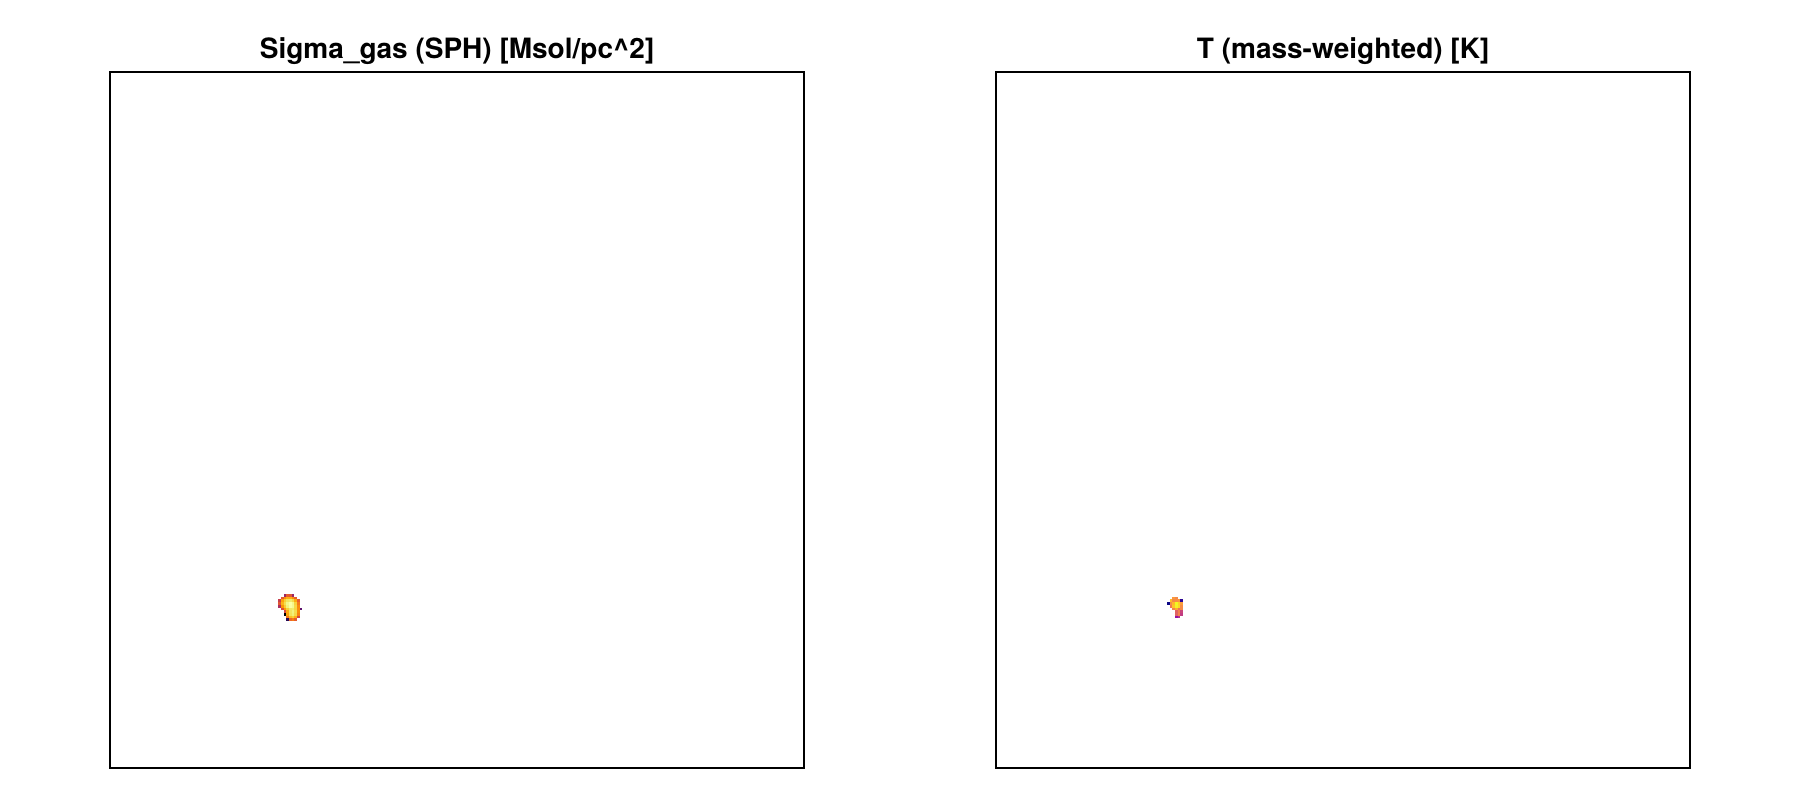
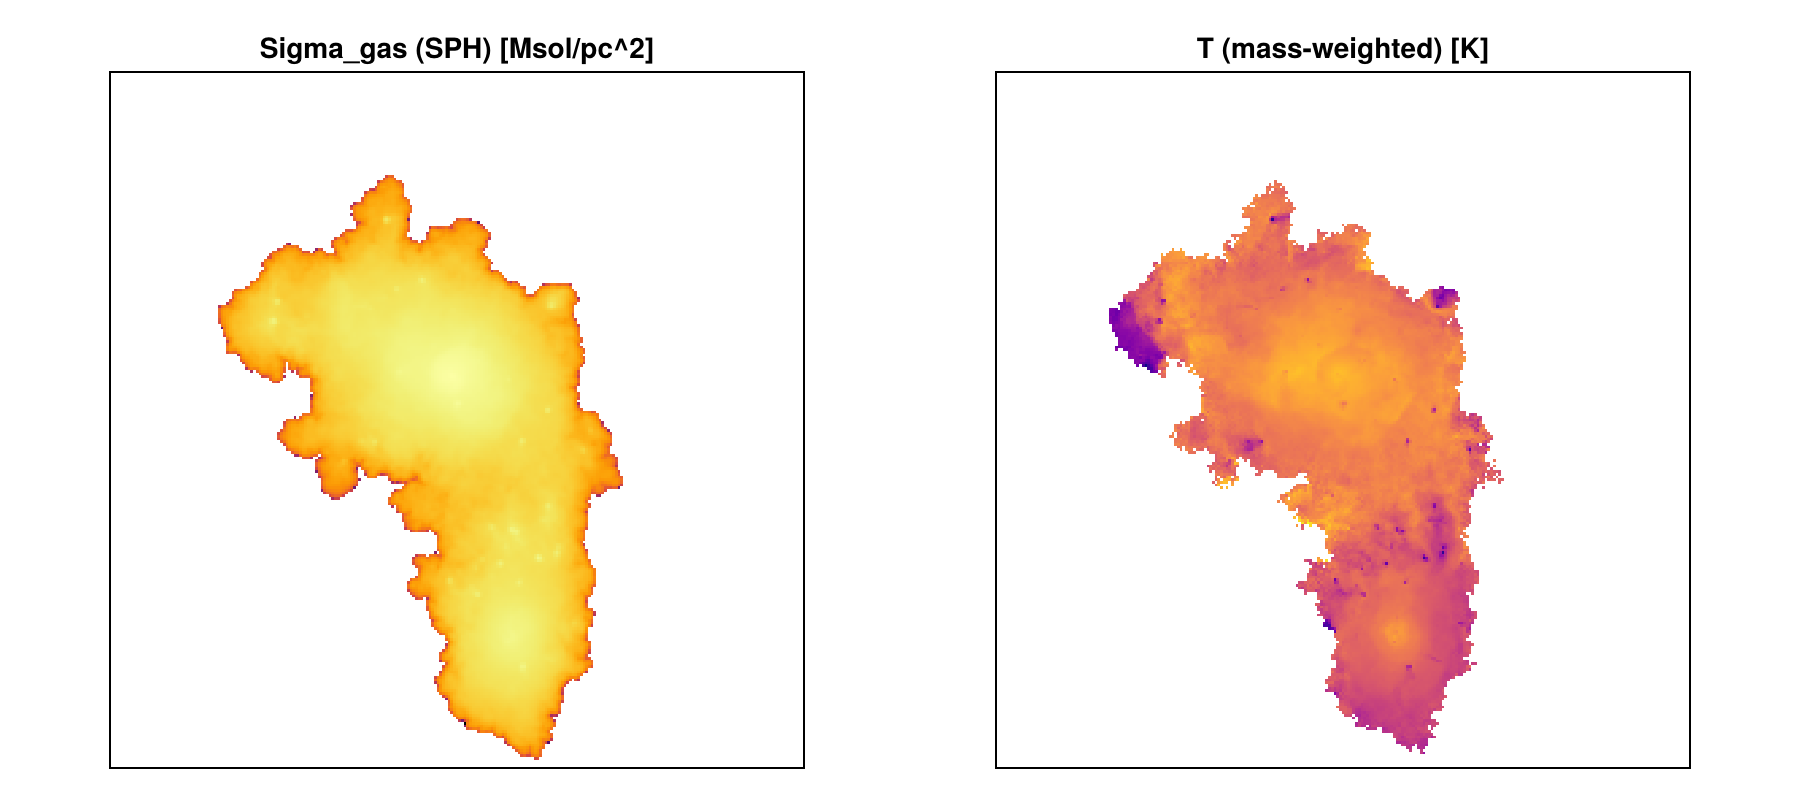
docs(AREPO): fix empty gas map (zoom to halo) + explain moving-mesh projection (#222)
The rendered TNG gas figure was ~empty because the projection spanned the full
205 Mpc box while TNGHalo is a small halo cutout (gas filled ~7 px of a 256²
map). The notebook now zooms to the halo (center on the gas COM, range in kpc,
res scaled up since res is full-box-relative) — the maps fill the frame. Figure
re-rendered (26K → 108K).

gadget_reader.md gains a "Moving-mesh projection" note: AREPO is a Voronoi
moving mesh, so weighting=:sph (smear each cell over an M4 kernel sized from its
volume) is the moving-mesh conversion — the same approach yt uses — while a
Voronoi-exact renderer would be a future refinement, not a correctness fix.

Changed region(s): [[0.1244, 0.2188, 0.3422, 0.9688], [0.5911, 0.2188, 0.84, 0.9375], [0.1556, 0.75, 0.1867, 0.7812]]

diff --git a/docs/src/multicode_examples.md b/docs/src/multicode_examples.md
@@ -29,13 +29,6 @@ using Mera
 base = get(ENV, "MERA_TEST_DATA", "/Volumes/FASTStorage/Simulations/Mera-Tests")
 ```
 
-    [36m[1m[ [22m[39m[36m[1mInfo: [22m[39mPrecompiling Mera [02f895e8-fdb1-4346-8fe6-c721699f5126] (cache misses: include_dependency fsize change (4), dep missing source (4), mismatched flags (10))
-
-
-    
-    SYSTEM: caught exception of type :MethodError while trying to print a failed Task notice; giving up
-
-
     
     *__   __ _______ ______   _______ 
 
@@ -69,7 +62,7 @@ gas  = gethydro(info, verbose=false)
 maximum(getvar(gas, :rho))                           # the usual analysis, unchanged
 ```
 
-    [0m[1m[Mera]: 2026-06-25T23:01:30.449[22m
+    [0m[1m[Mera]: 2026-06-25T23:14:32.338[22m
     
 
 
@@ -123,7 +116,7 @@ gsub = gethydro(ia; xrange=[-0.1,0.1], yrange=[-0.1,0.1], zrange=[-0.1,0.1],
 length(gsub.data), length(ga.data)                   # sub-region ≪ full snapshot
 ```
 
-    [0m[1m[Mera]: 2026-06-25T23:01:41.458[22m
+    [0m[1m[Mera]: 2026-06-25T23:14:43.762[22m
     
 
 
@@ -173,14 +166,14 @@ stars = getparticles_gadget(ig; families=[4])        # just the star particles
 length(stars.data), msum(stars) > 0
 ```
 
-    [0m[1m[Mera]: 2026-06-25T23:02:04.867[22m
+    [0m[1m[Mera]: 2026-06-25T23:15:07.582[22m
     
-
-
     Code: GADGET
     output: 200  time: 0.34483  redshift: 1.9
     boxlen = 64000.0
-    particles: 4334546 gas, 4786616 halo/DM, 2333848 disk, 450921 stars, 1149 bndry/BH  (total 11907080)
+    particles: 4334546 gas, 4786616 halo/DM, 2333848 disk, 450921 stars, 1149 bndry/BH
+
+      (total 11907080)
     -------------------------------------------------------
     [Mera]: GADGET particles = 450921, families 4
 
@@ -210,7 +203,7 @@ println("T   [K]     : ", extrema(getvar(gas, :T)))
 println("metallicity : ", extrema(getvar(gas, :metallicity)))
 ```
 
-    [0m[1m[Mera]: 2026-06-25T23:02:06.313[22m
+    [0m[1m[Mera]: 2026-06-25T23:15:08.951[22m
     
     Code: AREPO
     output: 59  time: 1.0  redshift: 0.0
@@ -221,9 +214,7 @@ println("metallicity : ", extrema(getvar(gas, :metallicity)))
 
       (x,y,z,vx,vy,vz,mass,id,family,rho,u,ne,metallicity,sfr,volume)
     gas cells   : 4006794
-    rho [g/cm³] : 
-
-    (1.3854807197342735e-30, 1.17827292777639e-22)
+    rho [g/cm³] : (1.3854807197342735e-30, 1.17827292777639e-22)
     T   [K]     : 
 
     (17.965557996942835, 1.2925814640761332e8)
@@ -240,21 +231,28 @@ println("gas mass [Msol]: ", msum(gas, :Msol))
 ```
 
     median T [K]   : 1.436872560859919e7
+    median Z       : 
 
-    
-    median Z       : 0.001993876649066806
+    0.001993876649066806
     gas mass [Msol]: 4.6930995577059625e13
 
 
-Gas maps come from the particle projection — point deposition (default) or `weighting=:sph`, which
-smears each cell over an M4 kernel sized from its `:volume`. Both are mass-conserving.
+Gas maps come from the particle projection. AREPO gas is a **Voronoi moving mesh**, so for maps each
+cell is smeared over an **M4 kernel sized from its `:volume`** (`weighting=:sph`) — the standard
+conversion for moving-mesh / SPH data (the same approach `yt` uses) — or deposited as a point
+(default). Both are mass-conserving. `TNGHalo` is a *cutout*, so we zoom to the halo.
 
 
 ```julia
-using CairoMakie
-c  = [sum(getvar(gas,:x)), sum(getvar(gas,:y)), sum(getvar(gas,:z))] ./ length(gas.data) ./ gas.boxlen
-sd = projection(gas, :sd, :Msol_pc2, res=256, center=c, weighting=:sph)   # SPH surface density
-Tm = projection(gas, :T,             res=256, center=c, weighting=:mass)   # mass-weighted ⟨T⟩
+using CairoMakie, Statistics
+# zoom to the halo (the gas fills only a small part of the 205 Mpc box); res is full-box-relative,
+# so scale it up so the zoom window spans ~256 px.
+cx, cy, cz = mean(getvar(gas,:x,:kpc)), mean(getvar(gas,:y,:kpc)), mean(getvar(gas,:z,:kpc))
+R   = maximum(maximum(abs, getvar(gas,q,:kpc) .- m) for (q,m) in zip((:x,:y,:z),(cx,cy,cz))) * 1.05
+res = ceil(Int, 256 * it.boxlen * it.scale.kpc / (2R))
+zoom = (res=res, center=[cx,cy,cz], range_unit=:kpc, xrange=[-R,R], yrange=[-R,R], zrange=[-R,R])
+sd = projection(gas, :sd, :Msol_pc2; weighting=:sph,  zoom...)   # SPH-kernel surface density
+Tm = projection(gas, :T;             weighting=:mass, zoom...)   # mass-weighted ⟨T⟩
 fig = Figure(size=(900, 400))
 a1 = Axis(fig[1,1]; title="Sigma_gas (SPH) [Msol/pc^2]", aspect=DataAspect()); hidedecorations!(a1)
 a2 = Axis(fig[1,2]; title="T (mass-weighted) [K]",        aspect=DataAspect()); hidedecorations!(a2)
@@ -263,44 +261,34 @@ heatmap!(a2, log10.(ifelse.(Tm.maps[:T]  .> 0, Tm.maps[:T],  NaN))'; colormap=:p
 fig
 ```
 
-    [36m[1m[ [22m[39m[36m[1mInfo: [22m[39mPrecompiling MeraMakieExt [defab1b5-6ec5-5409-a2f4-69ec619b2a0e] (cache misses: wrong dep version loaded (18))
-
-
-    
-    SYSTEM: caught exception of type :MethodError while trying to print a failed Task notice; giving up
-
-
-    [36m[1m[ [22m[39m[36m[1mInfo: [22m[39mMera v1.8.0
-
-
-    [0m[1m[Mera]: 2026-06-25T23:02:24.117[22m
+    [0m[1m[Mera]: 2026-06-25T23:15:21.508[22m
     
 
 
     center: [0.2352905, 0.2634881, 0.3024498] ==> [71.205 [Mpc] :: 79.739 [Mpc] :: 91.53 [Mpc]]
     
     domain:
-    xmin::xmax: 0.0 :: 1.0  	==> 0.0 [Mpc] :: 302.628 [Mpc]
-    ymin::ymax: 0.0 :: 1.0  	==> 0.0 [Mpc] :: 302.628 [Mpc]
-    zmin::zmax: 0.0 :: 1.0  	==> 0.0 [Mpc] :: 302.628 [Mpc]
+    xmin::xmax: 0.2194149 :: 0.251166  	==> 66.401 [Mpc] :: 76.01 [Mpc]
+    ymin::ymax: 0.2476126 :: 0.2793636  	==> 74.934 [Mpc] :: 84.543 [Mpc]
+    zmin::zmax: 0.2865743 :: 0.3183253  	==> 86.725 [Mpc] :: 96.334 [Mpc]
     
-    Effective resolution: 256^2
-    Pixel size: 1.182 [Mpc]
+    Effective resolution: 8063^2
+    Pixel size: 37.533 [kpc]
     Simulation min.: 151.314 [Mpc]
     
-    [0m[1m[Mera]: 2026-06-25T23:02:41.328[22m
+    [0m[1m[Mera]: 2026-06-25T23:15:38.828[22m
 
 
     
     center: [0.2352905, 0.2634881, 0.3024498] ==> [71.205 [Mpc] :: 79.739 [Mpc] :: 91.53 [Mpc]]
     
     domain:
-    xmin::xmax: 0.0 :: 1.0  	==> 0.0 [Mpc] :: 302.628 [Mpc]
-    ymin::ymax: 0.0 :: 1.0  	==> 0.0 [Mpc] :: 302.628 [Mpc]
-    zmin::zmax: 0.0 :: 1.0  	==> 0.0 [Mpc] :: 302.628 [Mpc]
+    xmin::xmax: 0.2194149 :: 0.251166  	==> 66.401 [Mpc] :: 76.01 [Mpc]
+    ymin::ymax: 0.2476126 :: 0.2793636  	==> 74.934 [Mpc] :: 84.543 [Mpc]
+    zmin::zmax: 0.2865743 :: 0.3183253  	==> 86.725 [Mpc] :: 96.334 [Mpc]
     
-    Effective resolution: 256^2
-    Pixel size: 1.182 [Mpc]
+    Effective resolution: 8063^2
+    Pixel size: 37.533 [kpc]
     Simulation min.: 151.314 [Mpc]
     
 
@@ -308,7 +296,7 @@ fig
 
 
 
-![Gas surface density (SPH-kernel) and mass-weighted temperature of an IllustrisTNG halo — produced by Mera's projection on AREPO gas cells.](assets/multicode/arepo_tng_gas_maps.png)
+![Gas surface density (SPH-kernel) and mass-weighted temperature of an IllustrisTNG halo, zoomed to the halo — produced by Mera's projection on AREPO Voronoi gas cells.](assets/multicode/arepo_tng_gas_maps.png)
 
 
 
